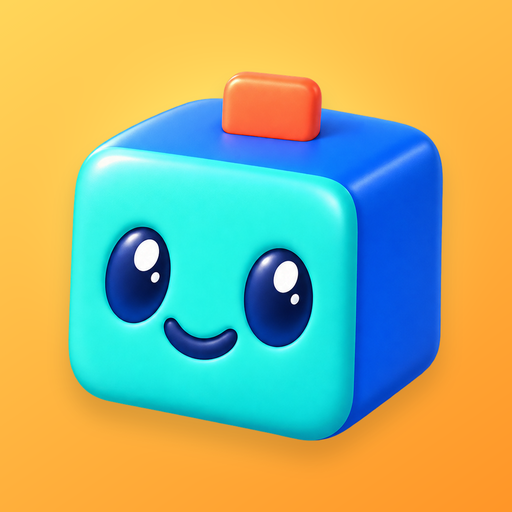
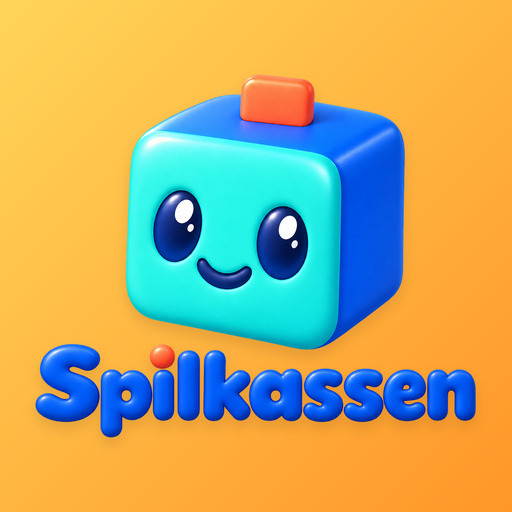
App-ikonet er nu hele Spilkassen-logoet: kassen og ordet Spilkassen
Ikonet til hjemmeskærmen (iPad, Android og computer) viser nu logoet med
navnet under kassen, på den samme orange baggrund som før. Det runde
Android-ikon har logoet lidt mindre, så intet bliver skåret af.

diff --git a/sw.js b/sw.js
@@ -1,6 +1,6 @@
 // ===== Service Worker — gør spillene installerbare og tilgængelige offline =====
 // Bump dette tal når der ændres filer, så de gamle bliver hentet på ny.
-const CACHE = "boernespil-v68";
+const CACHE = "boernespil-v69";
 
 const SPIL = ["balloner", "byg-burger", "enhjoerning", "vask", "slange", "tegne", "piano", "fisk", "broekraft", "rulle-rasmus", "burgerloeb"];
 const VOKSENSPIL = ["det-sidste-lys", "skrotstorm", "krystaljaegerne"];
